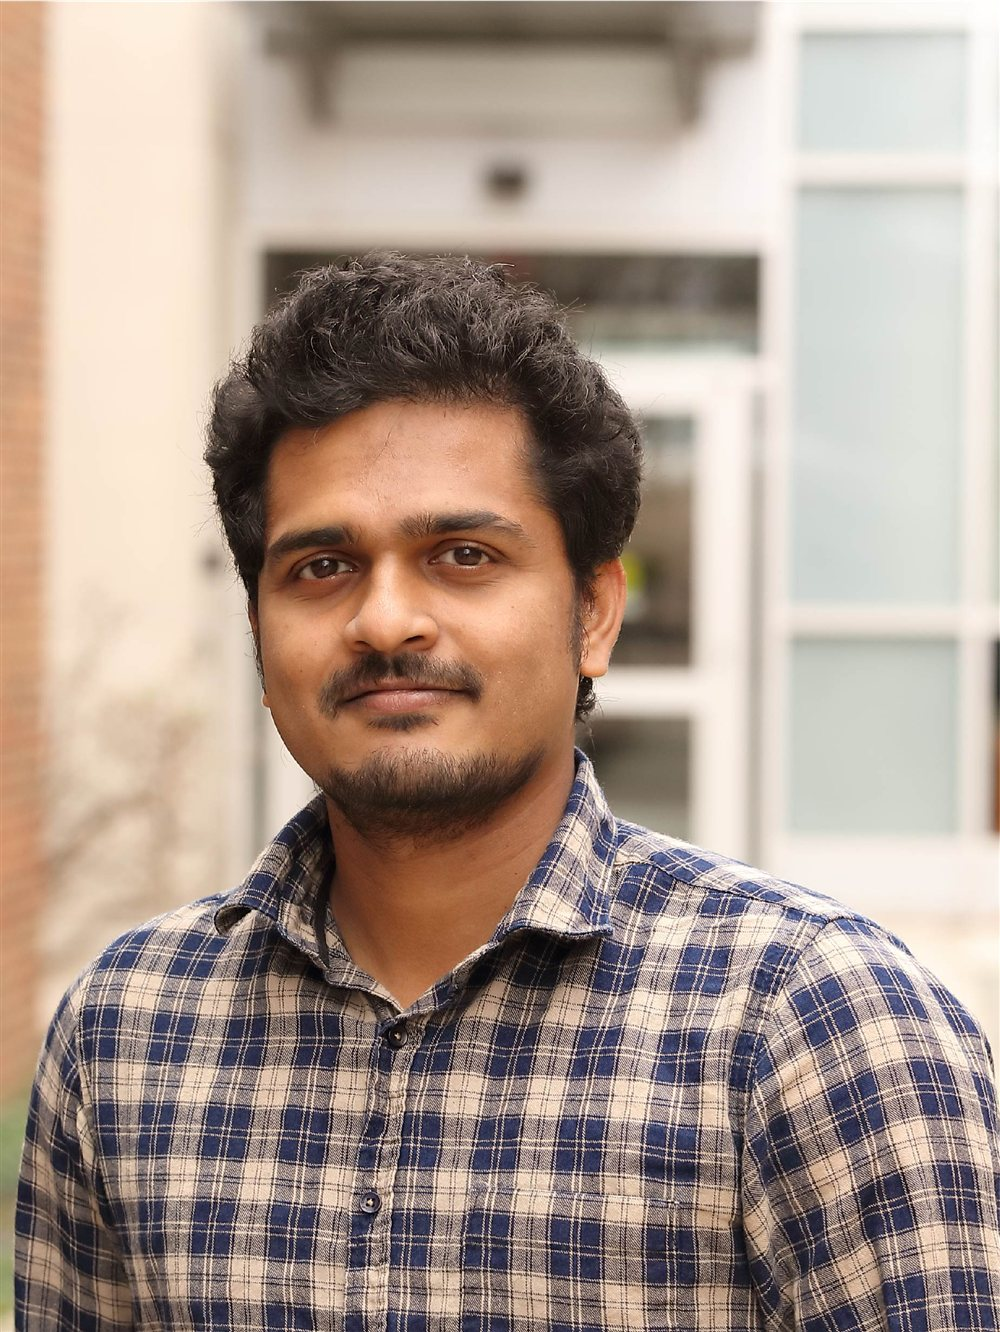
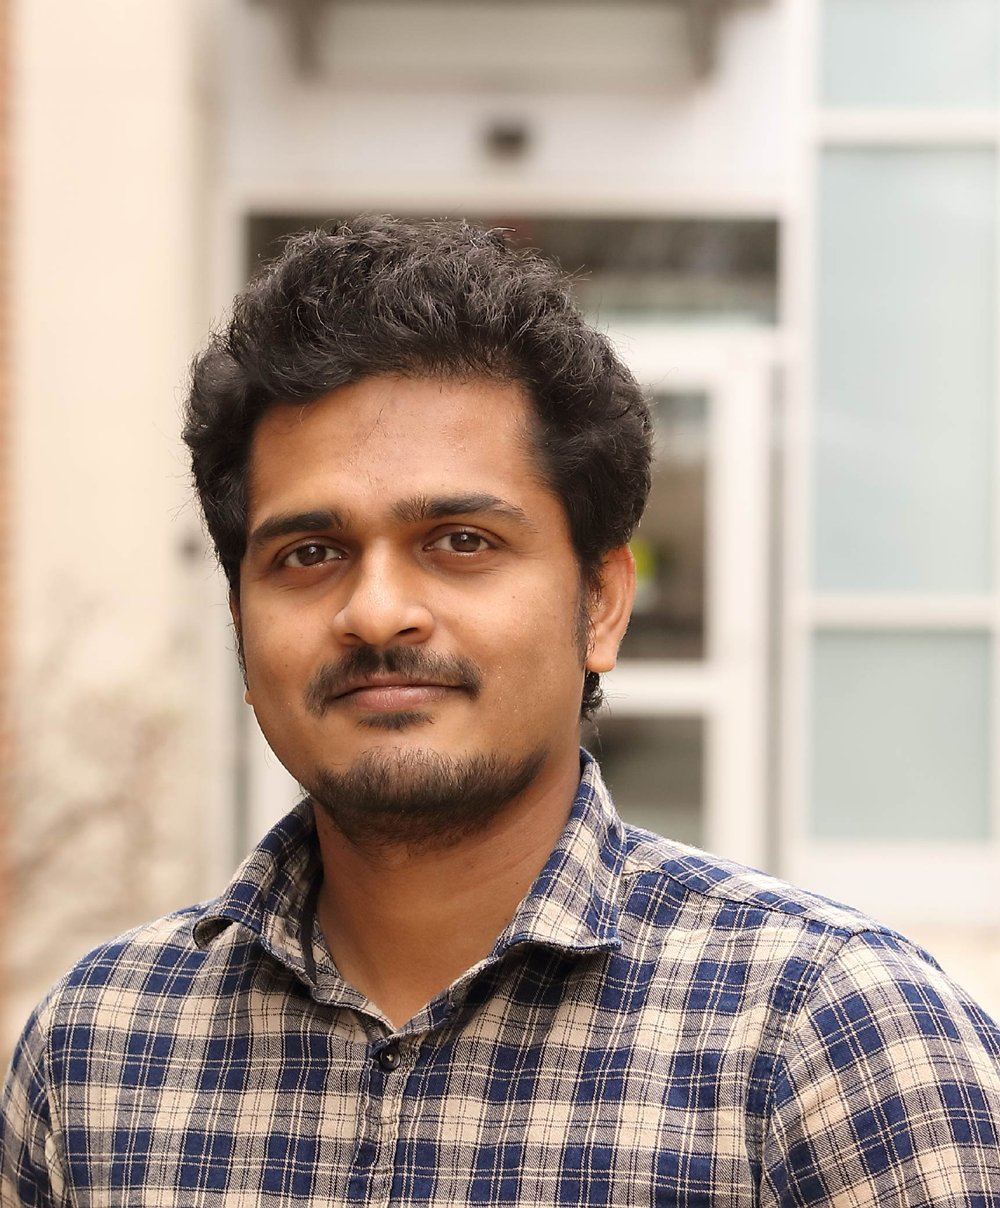
Re-crop Shane/Asanka/Devansh/Eva headshots with proper headroom + room below; convert Shane png->jpg (2.2MB->113KB)

diff --git a/people.html b/people.html
@@ -149,7 +149,7 @@
     </div>
 
     <div class="grad-card">
-      <img src="images/people/shane-michtavy.png" alt="Shane Michtavy" class="grad-photo"
+      <img src="images/people/shane-michtavy.jpg" alt="Shane Michtavy" class="grad-photo"
         onerror="this.style.display='none';this.nextElementSibling.style.display='flex';">
       <div class="ppl-av grad-av" style="display:none;">SM</div>
       <div class="grad-info">
